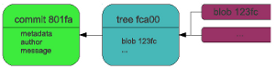
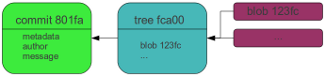
-removed converted png from eps and created new -added chapter speed and size -added chapter history and log command

diff --git a/comparison_to_other_dvcs.tex b/comparison_to_other_dvcs.tex
@@ -12,26 +12,63 @@ Some are:
      \item \emph{Visual SourceSafe} Powered by Microsoft
   \end{enumerate}
   
-We are going to take a closer look at \emph{Baazar} and \emph{Mercurial}
+We are going to take a closer look at \emph{Baazar} and \emph{Mercurial} 
 compared to Git.
 
 \subsection {Data storage}
 
-As already mentioned git uses it's unique storage model creating new snapshots
-every commit. Mercurial also thinks of its data as a snapshot. The difference
+As already mentioned Git uses it's unique storage model creating new snapshots
+every commit. Mercrial also thinks of its data as a snapshot. The difference
 is though, that basically Mercurial also creates deltas from a revsion A to B.
 Those deltas are infact the difference between two revsions. When a cumulative
 amount of deltas is stored to a file, Mercurial creates a new snapshot of this file. 
 \footnote{\cite {hgbook2009}
 http://hgbook.red-bean.com/read/behind-the-scenes.html, section Fast retrieval,
 accessed on 14.11.2010}
-Baazar TODO!!
+Baazar plans to change its model and use socalled \emph{nested trees}. At the level of data storage they are quite similar to git. The difference is that nested trees use unversioned branch data to store data instead of version files. \footnote{ http://wiki.bazaar.canonical.com/NestedTreesDesign\#git-submodules on 21.11.2010 } Baazar ist no well documented, in fact there are very good tutorials how to use Baazar. But when it comes to technical details, there is not much official documentation.
 
-\subsection {Speed}
+\subsection {Speed and size}
 
 Git claims to be a very efficient system. To mesure that there are several
 methods. The website \emph{whygitisbetterthanx.com} did a quite good job to
 summarize why git does handle things quite fast.
+Some of these tests are very biased and it seems obvious that the author's favourite system is git. 
+But there are three tests\footnote{http://doc.bazaar.canonical.com/migration/en/why-switch-to-bazaar.html\#high-storage-efficiency-and-speed on 21.11.2010} on the Baazar homepage that show that git clearly wins 
+calculationg the differences from revision A to B, commiting and using the log command:
 
-\subsection {Size}
+\begin{figure}[h]
+  \centering
+  \includegraphics{img/speed.png}
+  \caption{Speed tests}
+  \label{fig:Speedtests}  
+\end{figure}
+
+This is the mesured time\footnote{http://doc.bazaar.canonical.com/migration/en/why-switch-to-bazaar.html\#high-storage-efficiency-and-speed on 21.11.2010}:\\
+
+\begin{tabular}{ l || l | l | l }
+Operation &	Mercurial &	Git & Bazaar \\
+\hline
+diff & 0.622s & 0.156s & 0.916s\\
+commit & 1.126s & 0.348s & 1.030s\\
+log & 3.449s & 0.402s & 3.205s\\
+\end{tabular}\\
+
+Considering size of the metadata created from the DVCS there are other several tests. Here is another one from the Baazar homepage:
+
+\emph{The picture shows how much space the imported Mozilla project Firefox 3.5 has in the three different version control systems. The following table lists how much MB each of them needed}
+\begin{figure}[h]
+  \centering
+  \includegraphics{img/size.png}
+  \caption{Size of imported Mozilla project}
+  \label{fig: The imported Mozilla project in Mercurial, Baazar and Git}  
+\end{figure}
+
+\begin{center}
+\begin{tabular}{ l | c | r }
+Mercurial &	Git & Bazaar \\
+\hline
+311M & 124M & 137M
+\end{tabular}
+\end{center}
+
 

diff --git a/how_does_git_work.tex b/how_does_git_work.tex
@@ -38,6 +38,45 @@ section. Then we commit the changes with a short and descriptive message. After
 this git stores the changes into the repository and points the default master
 branch to the new commit. \cite{gitinternals2008} p 55 \\
 
+\subsection {History}
+
+With every commit Git will append information to the history of your project. This history
+can be browsed using the \emph {git log} command:
+
+\begin{lstlisting}
+$ git log
+commit 8133a...
+Author: User <user@provider.org>
+Date:   Wed Nov 17 19:29:03 2010 +0100
+
+    [commit message]
+    
+commit 3131f...
+Author: User <user@provider.org>
+Date:   Wed Nov 17 19:29:03 2010 +0100
+
+    [commit message]
+    
+...
+\end{lstlisting}
+
+Each commit consists of 4 parts: the commit SHA1 string, the author with his e-mail address, the commit date and a short descriptive message.
+But this is not all you can see in the history. With several additional commands you can format the history or even display all the changes.
+As an example this code formats the history quite different:
+
+\begin{lstlisting}
+$ git log 
+   --pretty=format:"%h, %ar : %s"
+8133ae1 4 days ago : fix issue 8645
+741a1bc 4 days ago : merged crazyidea
+3131fd0 4 days ago : added scripts
+\end{lstlisting}
+
+There are several more formating place holders that can be found at: http://progit.org/book/ch2-4.html.
+\footnote{\cite{gitpro2009} http://progit.org/book/ch2-3.html on 21.11.2010}\\
+
+As an example for the capability of the log command, there is a shell script\footnote{https://github.com/d1rk/git-ftp on 21.11.2010} on GitHub that allows you to upload your git repository over the ftp protocol. This script uses the git log command to get enough information to upload the changes to the ftp-server. 
+
 \subsection{Git over network}
 
 After there has been committed a huge amount of work in the local ruby on rails
@@ -98,7 +137,8 @@ $ git commit -a -m "message"
 The parameter \emph{-a} automatically adds the file to the staging mode and
 commits it. \cite{gitpro2009} chapter 2.2
 
-The picture taken out of the git pro book illustrates how files change their
+The picture\footnote{http://progit.org/figures/ch2/18333fig0201-tn.png last accessed on 
+09.11.2010} taken out of the git pro book illustrates how files change their
 lifecycle modes:
 
 \begin{figure}[h]
@@ -107,8 +147,7 @@ lifecycle modes:
   \caption{File status lifecycle}
   \label{fig:File status lifecycle}
   
-\end{figure} \footnote{http://progit.org/figures/ch2/18333fig0201-tn.png last accessed on 
-09.11.2010}
+\end{figure} 
 
 As we can see there are four modes a file can have. First we have to track them
 once to get them into the lifecycle. If we modify we can use \emph{-a} on the
@@ -180,7 +219,7 @@ all metadata, like commit message and author.
 Lets see what the releationship between these objects look like:
 
 \begin{figure}[h]
-  \includegraphics{img/branch3}
+  \includegraphics{img/branch2}
   \caption{Git objects after a commit}
   \label{fig: git objects after a commit}
   %\author{Richard Plangger}
